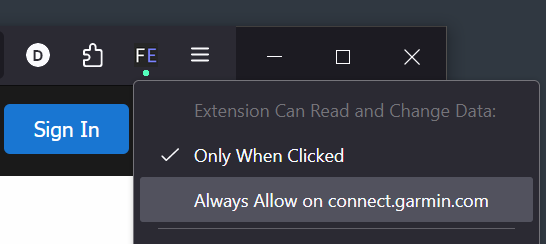
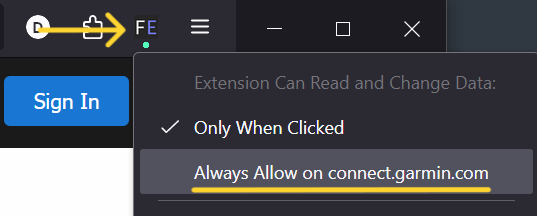
Fill out manual cookie entry support page. Annotate images on that page. Link to support pages from main support page. Rename user agent terms page.

Changed region(s): [[0.0, 0.0, 1.0, 1.0]]

diff --git a/source/landing/support/garmin-signin.md b/source/landing/support/garmin-signin.md
@@ -10,14 +10,21 @@ This page has the following contents:
 - Automatic and Manual Cookie Sync
 - Security
 - Automatic Cookie Sync (Chrome)
+  - Installing the Chrome Extension
+  - Configuring the Chrome Extension
 - Automatic Cookie Sync (Firefox)
-- Manual Cookie Sync
+  - Installing the Firefox Extension
+  - Configuring the Firefox Extension
+- Manual Cookie Entry
+  - Get Cookies (Chrome)
+  - Get Cookies (Firefox)
+  - Enter Cookies in FitEdit
 
 ## Introduction
 
 FitEdit offers extra features from within the app if you grant it access to your Garmin Connect account. These features include uploading activity files to Garmin Connect, editing activity titles and descriptions, and bulk download of activities from Garmin Connect. If you don't want to use these features, then you don't need to take the following steps.
 
-## Automatic and Manual Cookie Sync
+## Automatic Cookie Sync and Manual Cookie Entry
 
 FitEdit uses the same web cookies stored in your browser to access Garmin Connect. You can provide FitEdit with these cookies in two ways: automatically and manually. 
 
@@ -169,7 +176,7 @@ If you did not already have the FitEdit app running, launch it now and navigate 
 
 ![FitEdit OK](../assets/images/cookie-sync/garmin/automatic/firefox/setup/12-FitEditOK.png){:.center}
 
-## Manual Cookie Sync
+## Manual Cookie Entry
 
 Follow these steps to manually copy-paste cookie values from your web browser into FitEdit. FitEdit uses the following Garmin Connect cookies:
 
@@ -178,5 +185,46 @@ Follow these steps to manually copy-paste cookie values from your web browser in
 
 Note that while the _GARMIN_SSO_CUST_ID_ does not change unless you sign in with a different Garmin Connect account, the _SESSIONID_ expires after some time, usually a few days.
 
-To be completed...
+### Get Cookies (Chrome)
 
+Open the developer tools. _Kebab Menu => More tools => Developer tools_ 
+
+![Chrome Menu](../assets/images/cookie-sync/garmin/manual/chrome/1-Menu.png){:.center}
+
+![Developer Tools](../assets/images/cookie-sync/garmin/manual/chrome/2-DeveloperTools.png){:.center}
+
+The developer tools pane appears. Click on the _Application_ tab. On the left pane, under _Storage_, expand _Cookies_. Select _https://connect.garmin.com_. Copy the values associated with the cookie names _GARMIN_SSO_CUST_ID_ and _SESSIONID_.
+
+![Developer Tools](../assets/images/cookie-sync/garmin/manual/chrome/3-SSO-ID.png){:.center}
+
+![Developer Tools](../assets/images/cookie-sync/garmin/manual/chrome/4-SESSIONID.png){:.center}
+
+Enter the values into FitEdit. See below for instructions.
+
+### Get Cookies (Firefox)
+
+Open the web developer tools. _Hamburger Menu => More tools => Web Developer Tools_ 
+
+![Firefox Menu](../assets/images/cookie-sync/garmin/manual/firefox/1-Menu.png){:.center}
+
+![Firefox More tools](../assets/images/cookie-sync/garmin/manual/firefox/2-MoreTools.png){:.center}
+
+![Firefox More tools](../assets/images/cookie-sync/garmin/manual/firefox/3-WEbDeveloperTools.png){:.center}
+
+The web developer tools pane appears. Click on the _Storage_ tab. On the left pane, expand _Cookies_. Select _https://connect.garmin.com_. Copy the values associated with the cookie names _GARMIN_SSO_CUST_ID_ and _SESSIONID_.
+
+![Developer Tools](../assets/images/cookie-sync/garmin/manual/firefox1/4-SSO-ID.png){:.center}
+
+![Developer Tools](../assets/images/cookie-sync/garmin/manual/firefox/5-SESSIONID.png){:.center}
+
+Next, enter the values into FitEdit. See below for instructions.
+
+### Enter Cookies in FitEdit
+
+To enter cookie values in FitEdit, start FitEdit. Navigate to the _Settings_ tab, and scroll down to _Integrations_. Under _Garmin Connect_, enter the value for _GARMIN_SSO_CUST_ID_ in the text box for _SSO ID_. Then, enter the value for _SESSIONID_ in the text box for _Session ID_. Click _Sign in to Garmin_. 
+
+![Developer Tools](../assets/images/cookie-sync/garmin/manual/fitedit/1-CookieEntry.png){:.center}
+
+After a few seconds, you should be signed in.
+
+![Developer Tools](../assets/images/cookie-sync/garmin/manual/fitedit/2-SignedIn.png){:.center}

diff --git a/source/landing/support.md b/source/landing/support.md
@@ -2,8 +2,16 @@
 layout: default
 ---
 
-<main>
-	<h1>Support</h1>
-	<p style="text-align: center;">We offer free email support.</p>
-	<a class="cta-button" href="mailto:support@fitedit.io">Get Help</a>
-</main>
+# Support
+
+## Support Pages
+
+[User Agent Terms](./support/user-agent-terms.html)
+
+[Signing in to Garmin](./support/garmin-signin.html)
+
+## Email Support
+
+We offer free support by email.
+
+<a class="cta-button" href="mailto:support@fitedit.io">Get Help</a>
